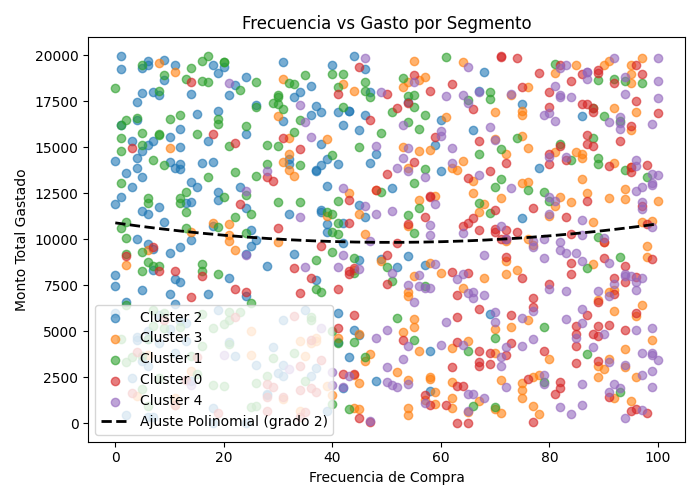
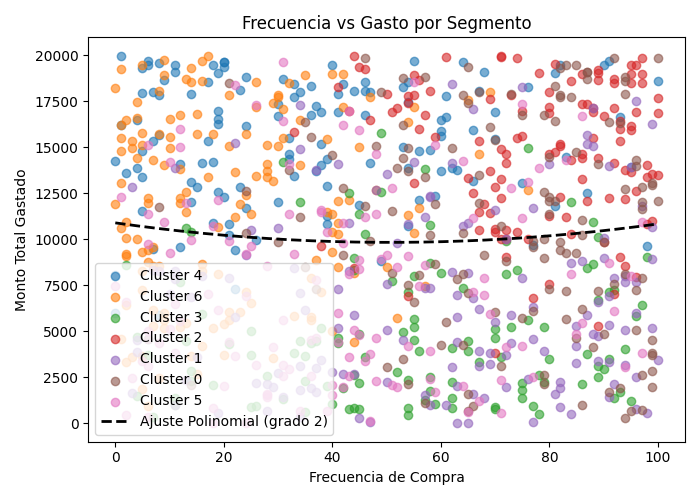
corregido

diff --git a/frontend/src/pages/ExportReports.jsx b/frontend/src/pages/ExportReports.jsx
@@ -1,5 +1,5 @@
 import React, { useState, useEffect } from 'react';
-import clusterData from '../data/clusterData.json';
+import { getApiUrl } from '../config';
 // Debes instalar jsPDF y jspdf-autotable: npm install jspdf jspdf-autotable
 import jsPDF from 'jspdf';
 import autoTable from 'jspdf-autotable';
@@ -8,29 +8,40 @@ export default function ExportReports() {
   const [clientes, setClientes] = useState([]);
   const [resumen, setResumen] = useState([]);
   const [generating, setGenerating] = useState(false);
+  const [error, setError] = useState(null);
 
   useEffect(() => {
-    // Preparar datos de clientes
-    const clientesProcesados = clusterData.clientes_segmentados.map(cliente => {
-      const cluster = clusterData.clusters.find(c => c.cluster_id === cliente.cluster_id);
-      return {
-        ID_Cliente: cliente.cliente_id,
-        Nombre: cliente.nombre,
-        ID_Cluster: cliente.cluster_id,
-        Nombre_Cluster: cluster ? cluster.nombre : 'Desconocido'
-      };
-    });
-    setClientes(clientesProcesados);
+    const fetchData = async () => {
+      try {
+        const response = await fetch(getApiUrl('/segments-report'));
+        if (!response.ok) {
+            throw new Error("No se pudo obtener el reporte. Asegúrate de haber entrenado el modelo.");
+        }
+        const data = await response.json();
+        
+        // Mapear datos del backend al formato de la tabla
+        const resumenProcesado = data.map(c => ({
+          ID_Cluster: c.cluster_id,
+          Nombre: `Cluster ${c.cluster_id}`, // El backend no da nombres "fancy" aún
+          Clientes: c.cantidad_clientes,
+          Gasto_Promedio: c.promedio_gasto,
+          Satisfaccion: c.insight // Usaremos el insight como "Satisfacción/Descripción"
+        }));
+        setResumen(resumenProcesado);
+        
+        // Nota: El endpoint actual solo devuelve resumen, no lista de clientes individual.
+        // Para este ejemplo, dejaremos clientes vacío o podríamos implementar otro endpoint.
+        setClientes([]); 
 
-    // Preparar datos de resumen
-    const resumenProcesado = clusterData.clusters.map(c => ({
-      ID_Cluster: c.cluster_id,
-      Nombre: c.nombre,
-      Clientes: c.cantidad_clientes,
-      Gasto_Promedio: c.metricas_promedio.gasto_promedio,
-      Satisfaccion: c.metricas_promedio.satisfaccion
-    }));
-    setResumen(resumenProcesado);
+      } catch (err) {
+        console.error(err);
+        setError(err.message);
+        // Fallback a datos vacíos para no romper la UI
+        setResumen([]);
+      }
+    };
+
+    fetchData();
   }, []);
 
   const downloadCSV = (data, filename) => {
@@ -172,6 +183,13 @@ export default function ExportReports() {
   return (
     <div style={styles.container}>
       <h1 style={styles.title}>Exportación de Reportes</h1>
+      
+      {error && (
+        <div style={{ padding: '1rem', backgroundColor: '#fee2e2', color: '#dc2626', borderRadius: '0.5rem', marginBottom: '1rem' }}>
+          {error}
+        </div>
+      )}
+
       <div style={styles.grid}>
         {/* Recuadro 1: Clientes Segmentados */}
         <div style={styles.exportCard}>

diff --git a/frontend/src/pages/Insights.jsx b/frontend/src/pages/Insights.jsx
@@ -1,12 +1,26 @@
 import React, { useState, useEffect } from 'react';
-import clusterData from '../data/clusterData.json';
+import { getApiUrl } from '../config';
 import SimpleBarChart from '../components/SimpleBarChart';
 
 export default function Insights() {
   const [clusters, setClusters] = useState([]);
 
   useEffect(() => {
-    setClusters(clusterData.clusters);
+    fetch(getApiUrl('/segments-report'))
+      .then(res => {
+        if (!res.ok) return [];
+        return res.json();
+      })
+      .then(data => {
+        if (Array.isArray(data)) {
+          const mapped = data.map(c => ({
+            nombre: `Cluster ${c.cluster_id}`,
+            cantidad_clientes: c.cantidad_clientes
+          }));
+          setClusters(mapped);
+        }
+      })
+      .catch(err => console.error(err));
   }, []);
 
   return (

diff --git a/backend/cluster_logic.py b/backend/cluster_logic.py
@@ -1,8 +1,10 @@
 import pandas as pd
 import numpy as np
+import matplotlib
+matplotlib.use('Agg')
 import matplotlib.pyplot as plt
 from sklearn.cluster import KMeans
-from sklearn.preprocessing import OneHotEncoder, RobustScaler
+from sklearn.preprocessing import OneHotEncoder, StandardScaler
 from sklearn.impute import SimpleImputer
 from sklearn.compose import ColumnTransformer
 from sklearn.pipeline import Pipeline
@@ -19,6 +21,7 @@ os.makedirs(PLOTS_DIR, exist_ok=True)
 
 class InsightClusterModel:
     def __init__(self):
+        self.model_trained = False  # Bandera de estado
         self.model = None
         self.raw_dataset = None  
         self.processed_data = None 
@@ -77,15 +80,39 @@ class InsightClusterModel:
             }
 
     # ================== PREPROCESADO ==================
+    def handle_outliers(self, df):
+        """Aplica Capping (Winsorization) a las columnas numéricas."""
+        df_clean = df.copy()
+        cols_to_process = [c for c in self.cols_numeric if c in df_clean.columns]
+        
+        for col in cols_to_process:
+            # Convertir a numérico forzoso por si acaso
+            df_clean[col] = pd.to_numeric(df_clean[col], errors='coerce')
+            
+            # Calcular límites IQR (5% - 95% para ser conservador)
+            Q1 = df_clean[col].quantile(0.05)
+            Q3 = df_clean[col].quantile(0.95)
+            IQR = Q3 - Q1
+            
+            lower_bound = Q1 - 1.5 * IQR
+            upper_bound = Q3 + 1.5 * IQR
+            
+            # Capping
+            df_clean[col] = np.where(df_clean[col] > upper_bound, upper_bound, df_clean[col])
+            df_clean[col] = np.where(df_clean[col] < lower_bound, lower_bound, df_clean[col])
+            
+        return df_clean
+
     def preprocess_data(self):
         if self.raw_dataset is None:
             raise ValueError("No hay datos cargados.")
 
-        df = self.raw_dataset.copy()
+        # 1. Limpieza de Outliers antes de escalar
+        df = self.handle_outliers(self.raw_dataset)
 
         numeric_transformer = Pipeline(steps=[
             ('imputer', SimpleImputer(strategy='median')),
-            ('scaler', RobustScaler())
+            ('scaler', StandardScaler())
         ])
 
         categorical_transformer = Pipeline(steps=[
@@ -115,13 +142,15 @@ class InsightClusterModel:
         kmeans = KMeans(
             n_clusters=n_clusters,
             max_iter=max_iter,
+            init='k-means++',
             random_state=42,
-            n_init=20
+            n_init=10
         )
 
         self.labels = kmeans.fit_predict(X)
         self.model = kmeans
         self.raw_dataset['Cluster'] = self.labels
+        self.model_trained = True  # Bandera activada
 
         # ================== METRICAS ==================
         inertia = kmeans.inertia_
@@ -150,6 +179,8 @@ class InsightClusterModel:
             return []
 
         summary = []
+        insights = self.generate_insights()
+
         for i in range(self.model.n_clusters):
             c = self.raw_dataset[self.raw_dataset['Cluster'] == i]
 
@@ -165,7 +196,8 @@ class InsightClusterModel:
                 "ejemplo_reseña": (
                     c['texto_reseña'].iloc[0]
                     if not c.empty else ""
-                )
+                ),
+                "insight": insights.get(i, "Sin datos suficientes")
             })
 
         return summary
@@ -263,6 +295,60 @@ class InsightClusterModel:
         plt.tight_layout()
         plt.savefig(f"{PLOTS_DIR}/canales_por_segmento.png")
         plt.close()
+
+    def generate_insights(self):
+        """Genera insights comparando cada cluster con el promedio global."""
+        if self.raw_dataset is None or 'Cluster' not in self.raw_dataset.columns:
+            return {}
+
+        insights = {}
+        df = self.raw_dataset
+        
+        try:
+            # Promedios globales
+            global_means = df[self.cols_numeric].mean()
+            
+            # Promedios por cluster
+            cluster_means = df.groupby('Cluster')[self.cols_numeric].mean()
+        except KeyError:
+             return {i: "Datos insuficientes para insights" for i in range(self.model.n_clusters)}
+
+        for i in range(self.model.n_clusters):
+            insight_parts = []
+            c_means = cluster_means.loc[i]
+            
+            # Comparar Gasto
+            if c_means['monto_total_gastado'] > global_means['monto_total_gastado'] * 1.1:
+                insight_parts.append("Gastadores Altos.")
+            elif c_means['monto_total_gastado'] < global_means['monto_total_gastado'] * 0.9:
+                insight_parts.append("Gastadores Bajos.")
+                
+            # Comparar Frecuencia
+            if c_means['frecuencia_compra'] > global_means['frecuencia_compra'] * 1.1:
+                insight_parts.append("Muy Frecuentes.")
+            elif c_means['frecuencia_compra'] < global_means['frecuencia_compra'] * 0.9:
+                insight_parts.append("Poco Frecuentes.")
+
+            # Canal
+            c_data = df[df['Cluster'] == i]
+            if not c_data.empty:
+                top_canal = c_data['canal_principal'].mode()[0]
+                insight_parts.append(f"Canal: {top_canal}.")
+
+            if not insight_parts:
+                insight_parts.append("Comportamiento Promedio.")
+                
+            insights[i] = " ".join(insight_parts)
+            
+        return insights
+
+    def get_csv_export(self):
+        """Retorna el dataset con los clusters asignados en formato CSV."""
+        if self.raw_dataset is None:
+            raise ValueError("No hay datos cargados.")
+        if not self.model_trained:
+            raise ValueError("El modelo no ha sido entrenado. No se pueden exportar resultados.")
+        return self.raw_dataset.to_csv(index=False)
 
 
 cluster_engine = InsightClusterModel()

diff --git a/backend/main.py b/backend/main.py
@@ -94,14 +94,19 @@ def train_model(config: TrainConfig):
 # reporte de segmentos
 @app.get("/segments-report")
 def get_segments():
+    if not cluster_engine.model_trained:
+        raise HTTPException(status_code=400, detail="Modelo no entrenado")
     try:
         return cluster_engine.get_cluster_summary()
-    except Exception:
-        raise HTTPException(status_code=400, detail="Modelo no entrenado")
+    except Exception as e:
+        raise HTTPException(status_code=500, detail=str(e))
 
 # exportar datos
 @app.get("/export-data")
 def export_data():
+    if not cluster_engine.model_trained:
+        raise HTTPException(status_code=400, detail="Debe entrenar el modelo antes de exportar resultados")
+
     csv_content = cluster_engine.get_csv_export()
     if csv_content is None:
         raise HTTPException(status_code=404, detail="No hay datos para exportar")
